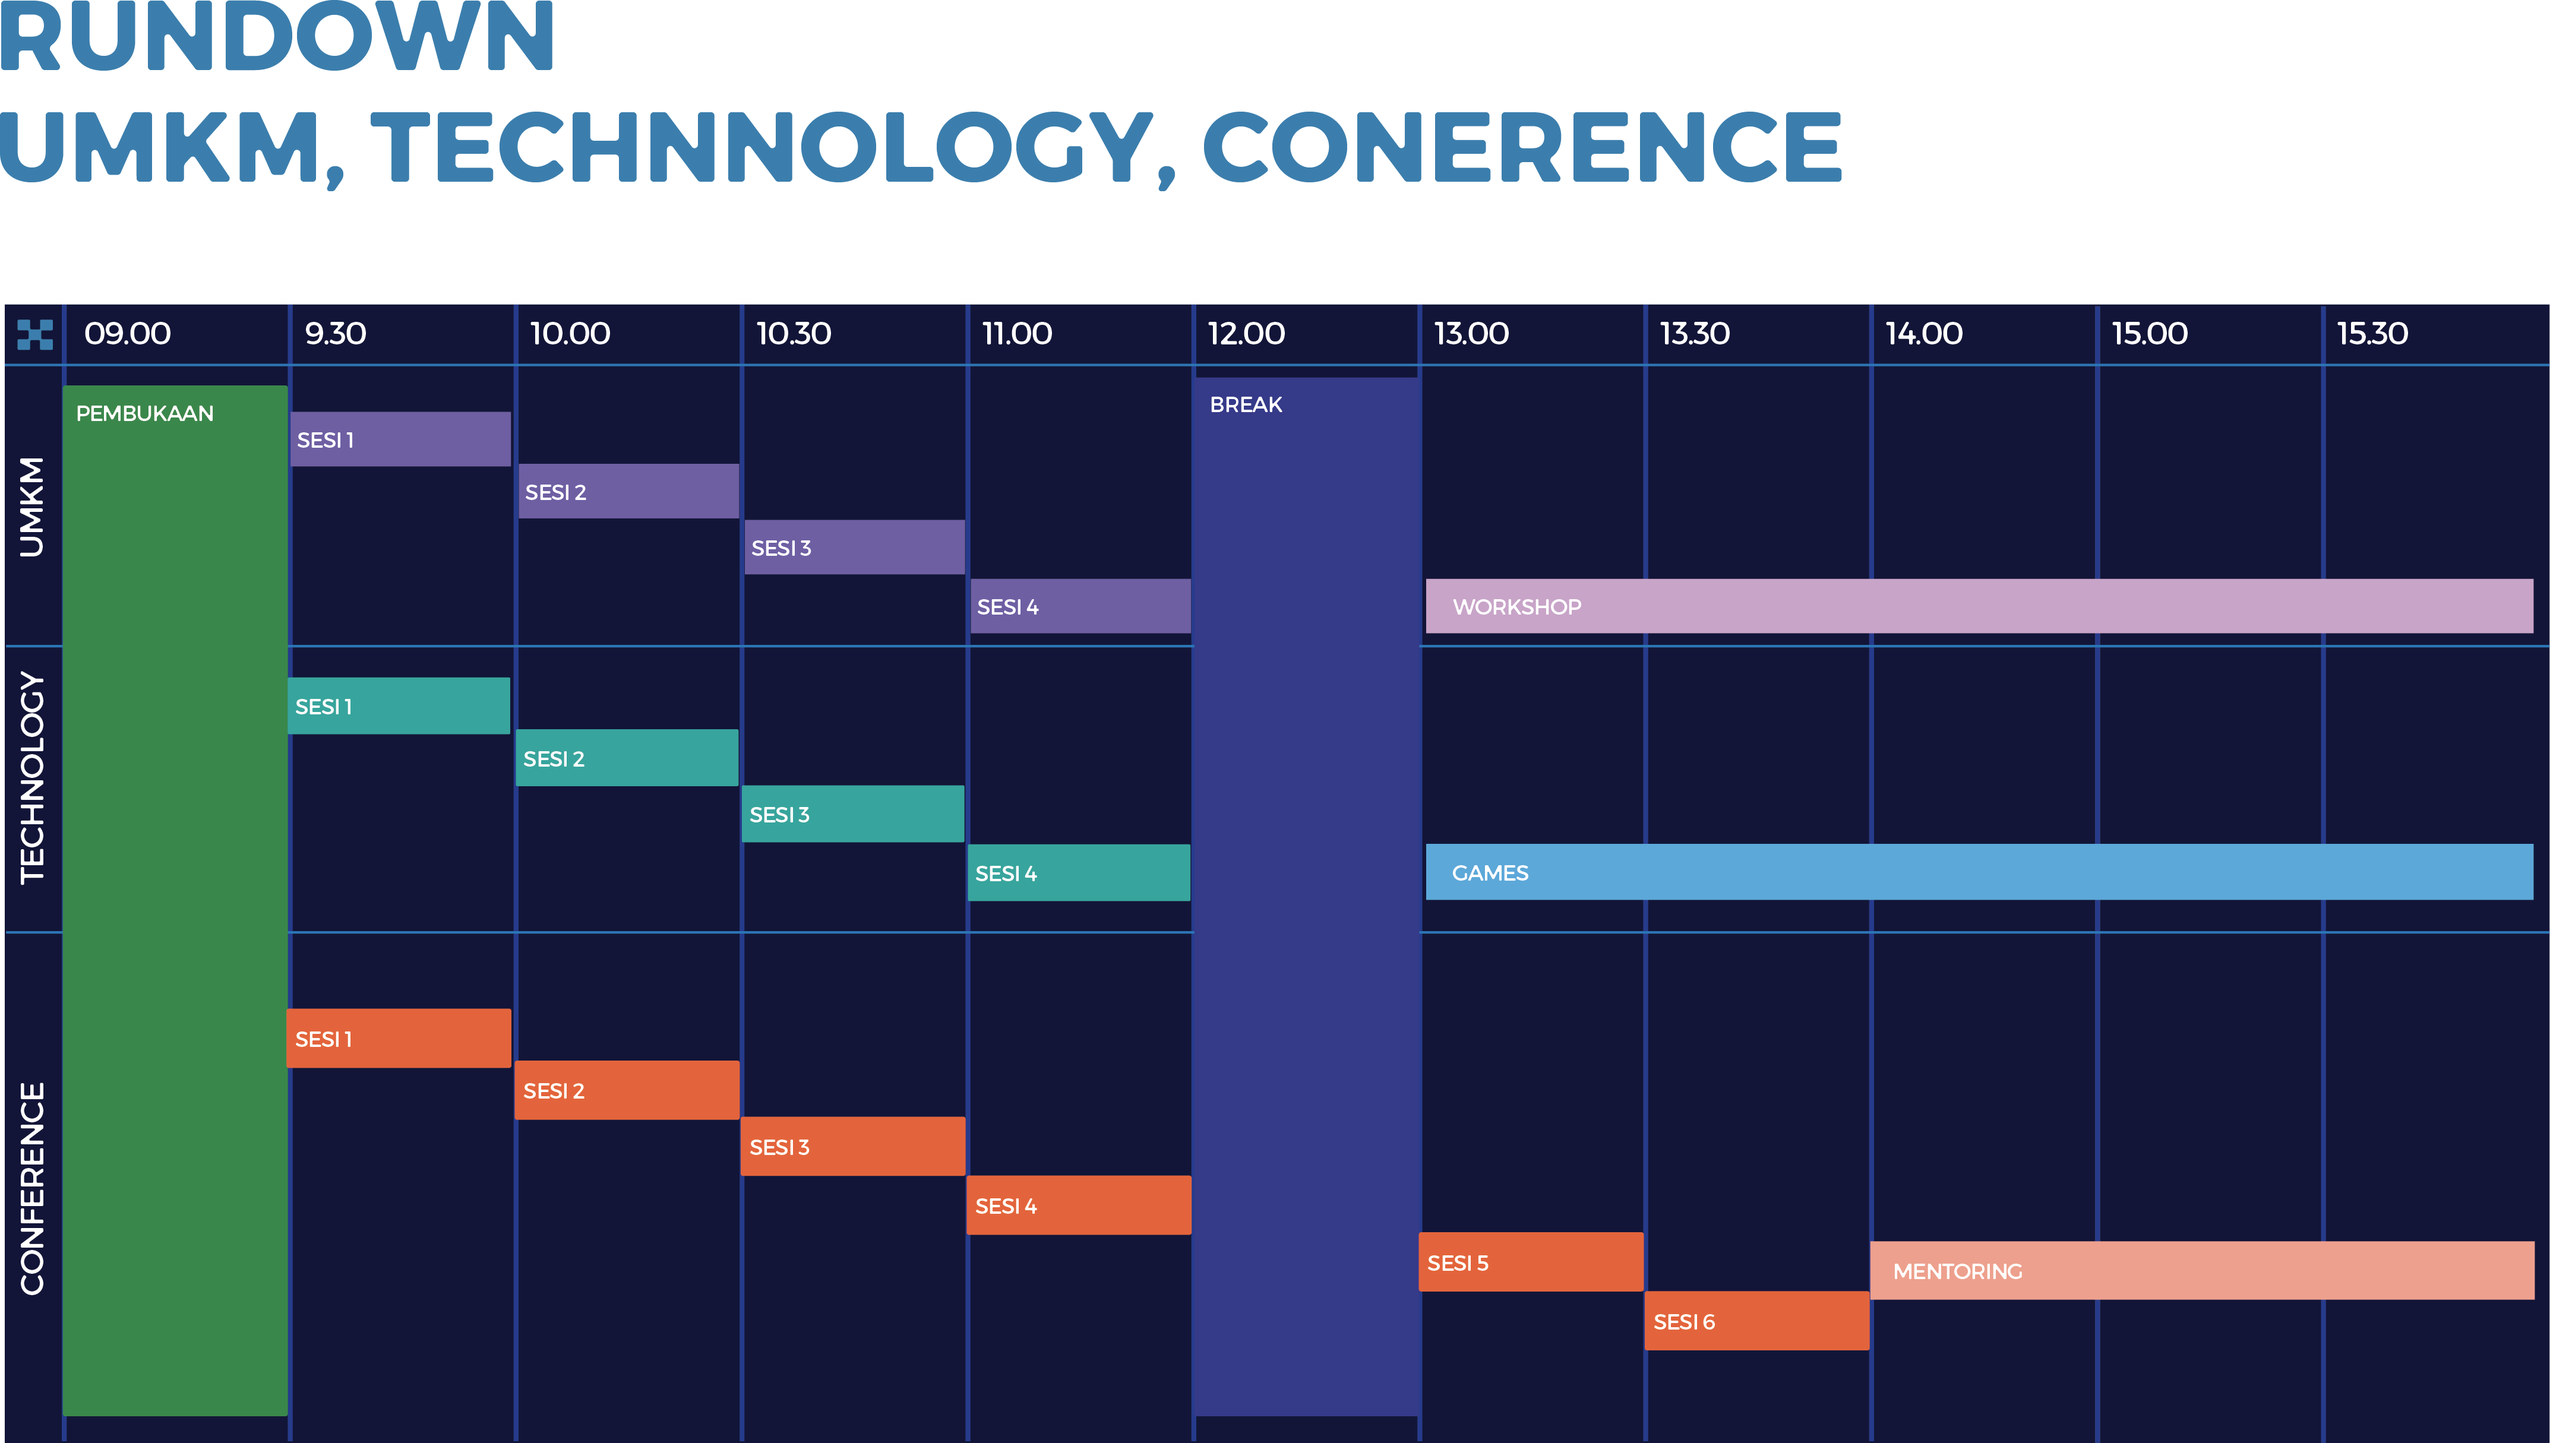
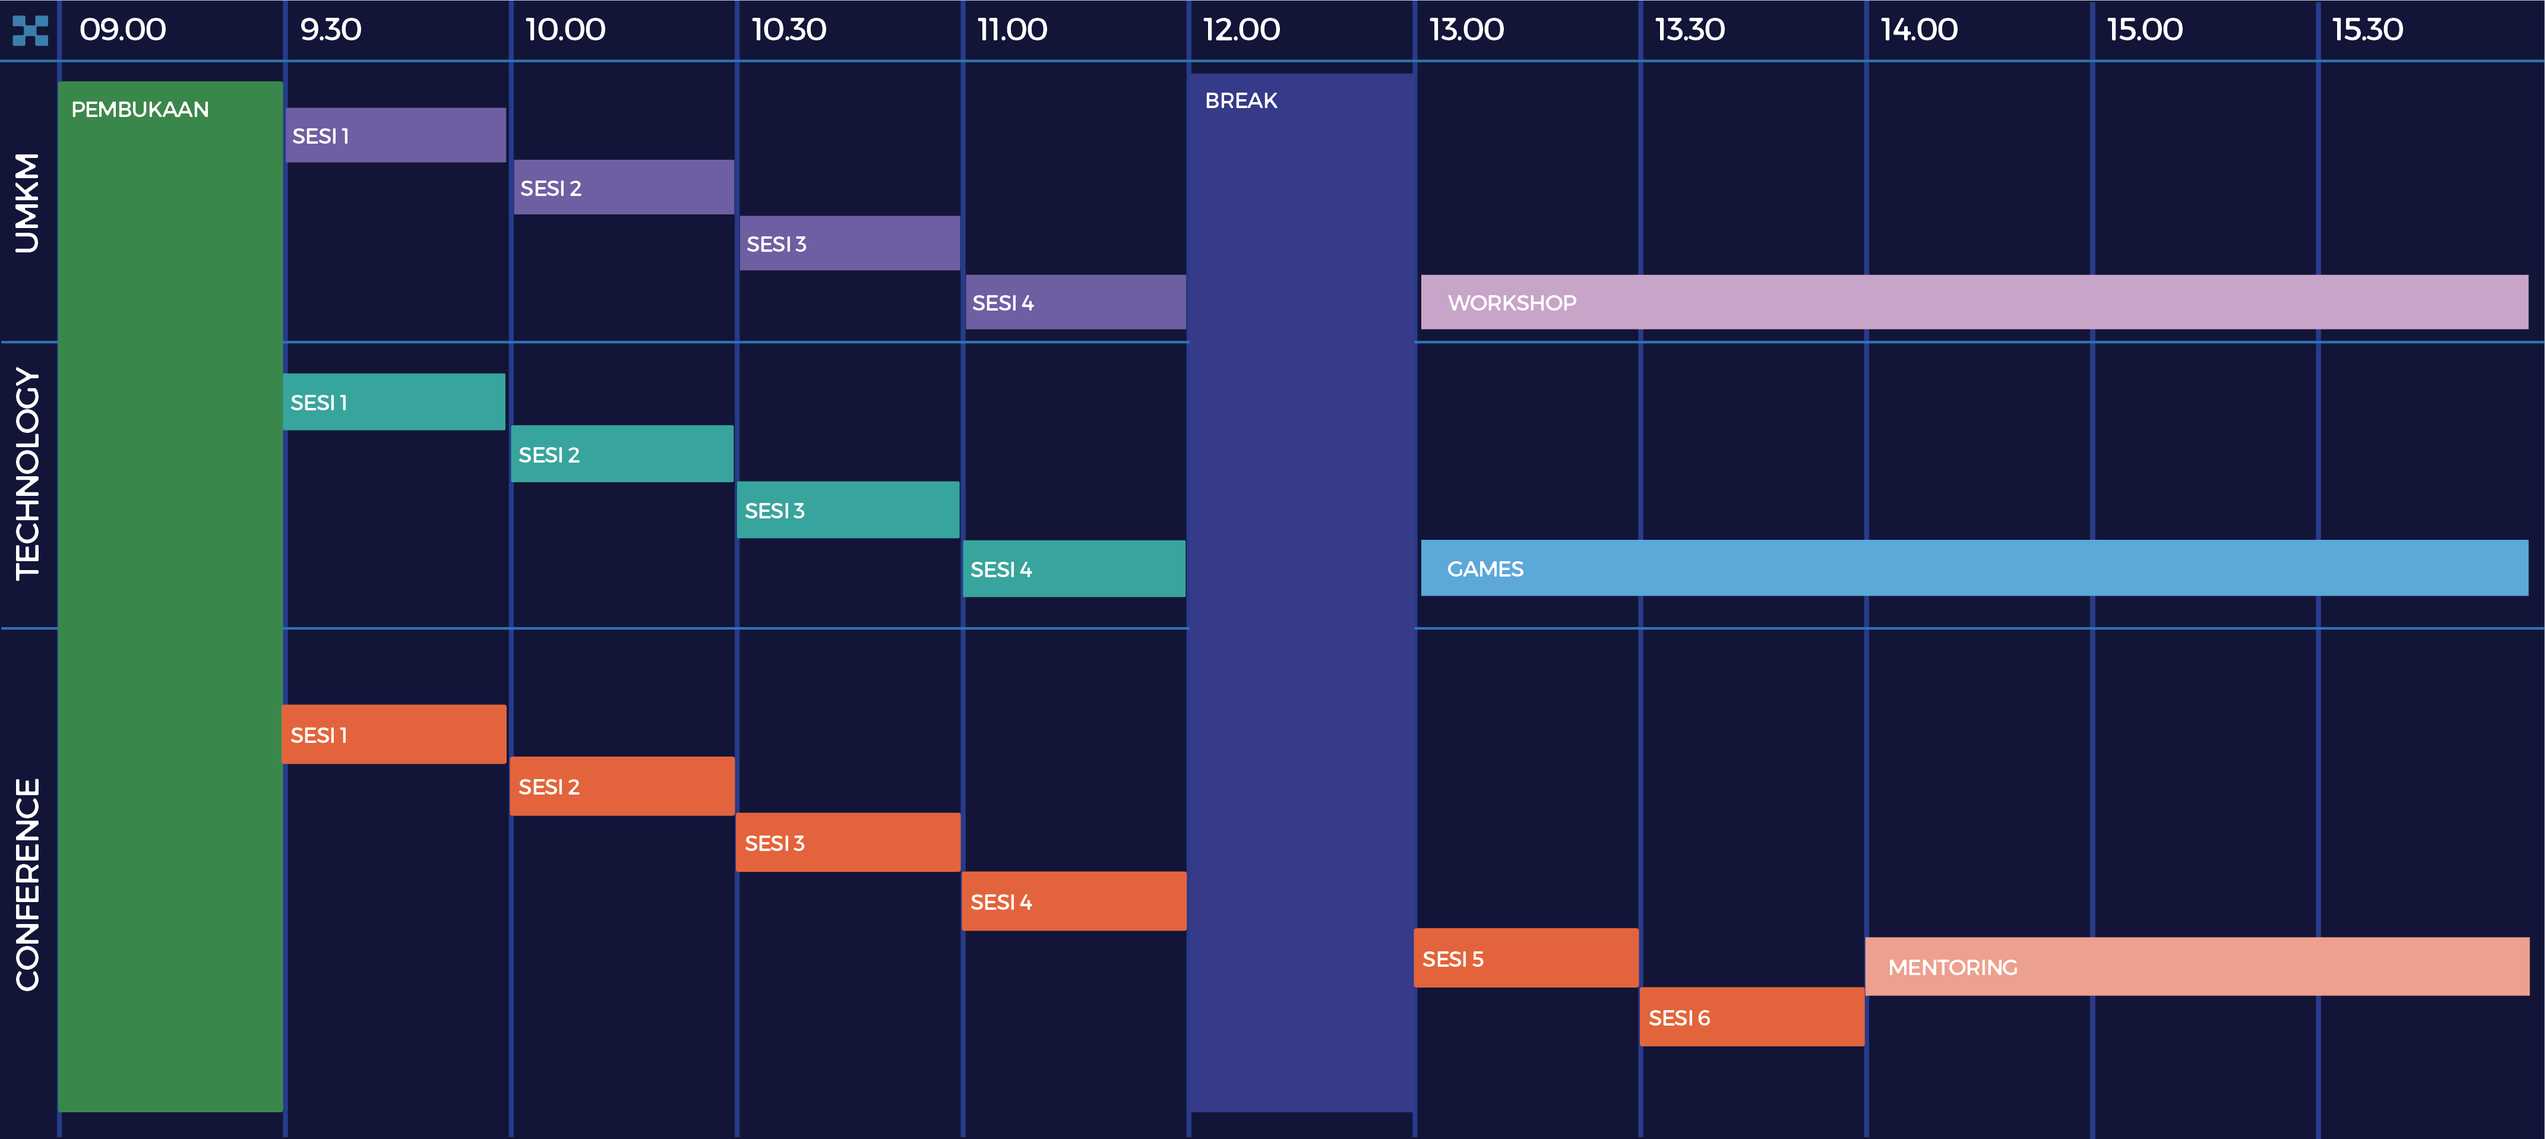
fix layout and responsive imange

diff --git a/src/style.css b/src/style.css
@@ -54,7 +54,7 @@ body {
 
 
 .header-img {
-    width: 90%;
+    width: 100%;
 }
 
 .main {
@@ -63,20 +63,17 @@ body {
 
 .main .content-home {
     margin-top: 140px;
-    margin-bottom: 70px;
 }
 
 .main .content-about {
     color: var(--secondary-color);
-    /* display: flex;
-    flex-direction: column;
-    justify-content: center; */
-
-    animation: fadeIn 0.3s ease-out; 
+    
+    min-height: 70vh;
 }
 
 .main .content-about h1 {
     font-weight: 800;
+    letter-spacing: 3px;
 }
 
 .main .content-about p {
@@ -86,11 +83,6 @@ body {
 .main .content-information {
     color: var(--secondary-color);
     
-}
-
-.main .content-information h1 {
-    font-weight: 800;
-    animation: fadeIn 0.3s ease-out; 
 }
 
 .main .content-information h2 {
@@ -108,8 +100,11 @@ body {
     margin-bottom: 100px;
 }
 
-.main .content-information .content-information-detail{
-    width: 70%;
+.main .content-information .content-information-detail {
+    max-width: 70%;
+    text-align: center;
+    margin-top: 60px;
+    letter-spacing: 0.5px;
 }
 
 .main .content-information .content-information-detail img{
@@ -117,9 +112,14 @@ body {
     margin-bottom: 80px;
 }
 
-/* .main .content-information .img-maps-conference {
-  
-} */
+.maps-tenant {
+    width: 80%;
+}
+
+.rundown-festival {
+    width: 80%;
+}
+
 
 .footer {
     background-color: var(--secondary-color);
@@ -153,15 +153,16 @@ body {
     }
 }
 
-/* h1 {
-    animation: fadeIn 1.5s ease-out; 
-} */
-
 @media screen and (max-width: 992px) {
     .main .content-information h2 {
         font-size: 1.5em;
         font-weight: 700;
     }
+
+    .main .content-about {    
+        min-height: 60vh;
+    }
+
 }
 
 @media screen and (max-width: 768px) {
@@ -171,16 +172,36 @@ body {
 
     .main .content-home {
         margin-top: 160px;
-        margin-bottom: 100px;
+        margin-bottom: 60px;
     }
+
+    .main .content-information .content-information-detail{
+        max-width: 90%;
+        width: 90%;
+        text-align: center;
+        margin-top: 60px;
+        letter-spacing: 0px;
+    }
+
+    
+    .maps-tenant {
+        width: 100%;
+    }
+
+    .rundown-festival {
+        width: 100%;
+    }
+
 }
 
 @media screen and (max-width: 575px) {
-    .header-img {
-        width: 90%;
-    }
     .main .content-about h1 {
         font-size: 2em;
+    }
+
+    .main .content-information .content-information-detail {
+        max-width: 90%;
+        width: 90%;
     }
 
     .main .content-information .title {
@@ -194,10 +215,6 @@ body {
 
     .main .content-about p {
         font-size: 1em;
-    }
-
-    .main .content-information .content-information-detail{
-        width: 90%;
     }
 
     .footer {

diff --git a/src/pages/Rundown.vue.js b/src/pages/Rundown.vue.js
@@ -1,16 +1,20 @@
 const Rundown = {
     template: `
-    <<div class="content-information container my-5">
-    <div class="d-flex flex-column justify-content-center align-items-center">
-      <div class="content-information-detail">
-        <div class="mb-4">
-          <img src="./src/assets/ASSET-06.png" class="img-fluid" alt="rundown-conference">
+    <div class="content-information container my-5">
+        <div class="d-flex flex-column justify-content-center align-items-center">
+        <div class="content-information-detail">
+            <div>
+                <h2>Rundown</h2>
+                <h2 class="mb-3">UMKM, Technology, Conference</h2>
+                <img src="./src/assets/ASSET-06.png" class="img-fluid" alt="rundown-conference">
+            </div>
+            <div>
+                <h2>Rundown</h2>
+                <h2 class="mb-3">Festival</h2>
+                <img src="./src/assets/ASSET-08.png" class="img-fluid rundown-festival" alt="rundown-festival">
+            </div>
         </div>
-        <div class="">
-          <img src="./src/assets/ASSET-08.png" class="img-fluid" alt="rundown-festival">
         </div>
-      </div>
     </div>
-</div>
     `
   };

diff --git a/src/pages/Maps.vue.js b/src/pages/Maps.vue.js
@@ -3,20 +3,22 @@ const Maps = {
     <div class="content-information container my-5">
         <div class="d-flex flex-column justify-content-center align-items-center">
           <div class="content-information-detail">
-            <div class="mb-4">
+            <div>
+                <h2>Maps</h2>
+                <h2 class="mb-3">Festival</h2>
                 <img src="./src/assets/ASSET-07.png" class="img-fluid" alt="maps-gate">
             </div>
-            <div class="mb-4">
+            <div>
               <h2>Maps</h2>
               <h2 class="mb-3">UMKM, Technology, Conference</h2>
               <div class="d-flex justify-content-center">
                 <img src="./src/assets/ASSET-04.png" class="img-fluid" alt="maps-conference">
               </div>
             </div>
-            <div class="">
+            <div>
               <h2>Tenants</h2>
               <h2>Information</h2>
-              <img src="./src/assets/ASSET-05.png" class="img-fluid" alt="maps-tenant">
+              <img src="./src/assets/ASSET-05.png" class="img-fluid maps-tenant" alt="maps-tenant">
             </div>
           </div>
             

diff --git a/src/pages/Home.vue.js b/src/pages/Home.vue.js
@@ -1,12 +1,11 @@
 const Home = {
   template: `
-    <div class="content-home mx-4 d-flex align-items-center justify-content-center">
+    <div class="content-home container d-flex align-items-center justify-content-center">
         <img src="./src/assets/ASSET-03.png" class="img-fluid header-img mx-auto" alt="header-spix">
     </div>
 
-    <div class="content-about container py-5">
-        <h1>ABOUT</h1>
-        <h1>SPIX</h1>
+    <div class="content-about container py-5 d-flex flex-column justify-content-center align-items-center">
+        <h1>ABOUT SPIX</h1>
         <p class="mt-4">Spix Connect merupakan sebuah inisiatif akar rumput berbasis event, yang dibuat dengan misi utama untuk memfasilitasi jaringan antar ide-ide, panggung kesempatan, dan juga fitur-fitur spesial nan berpengaruh. Hal ini sejalan dengan motto dari Spix Connect yaitu "connecting the dots".</p>
     </div>
   `
